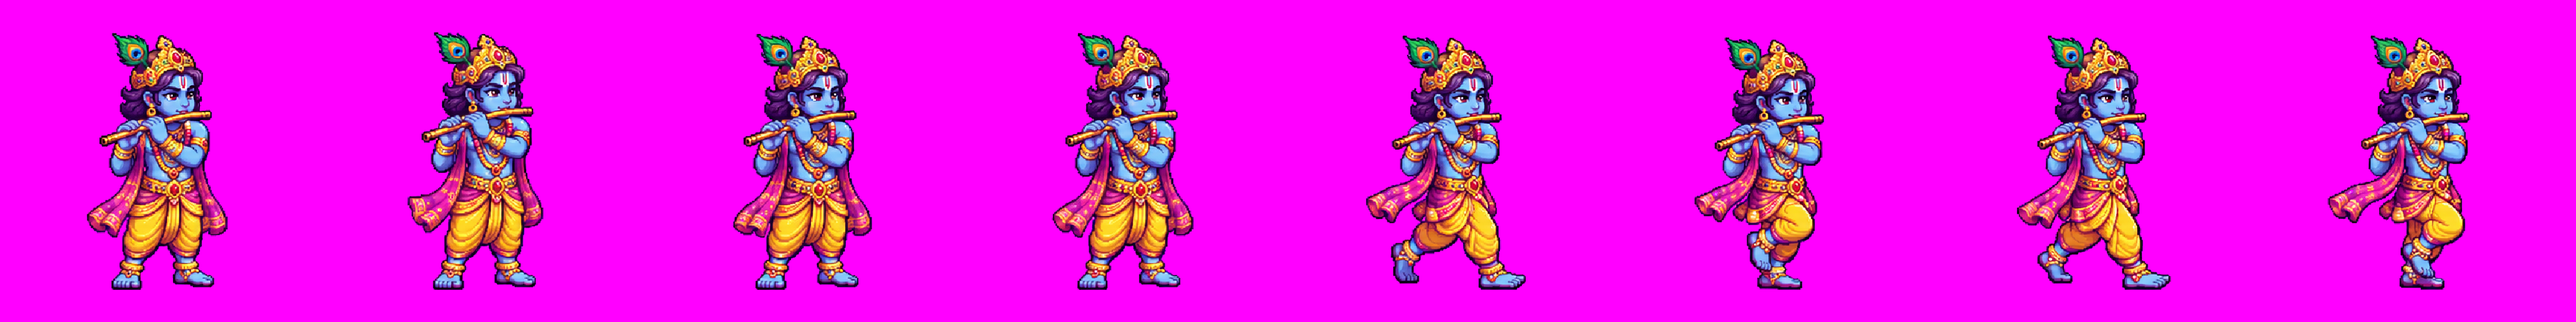
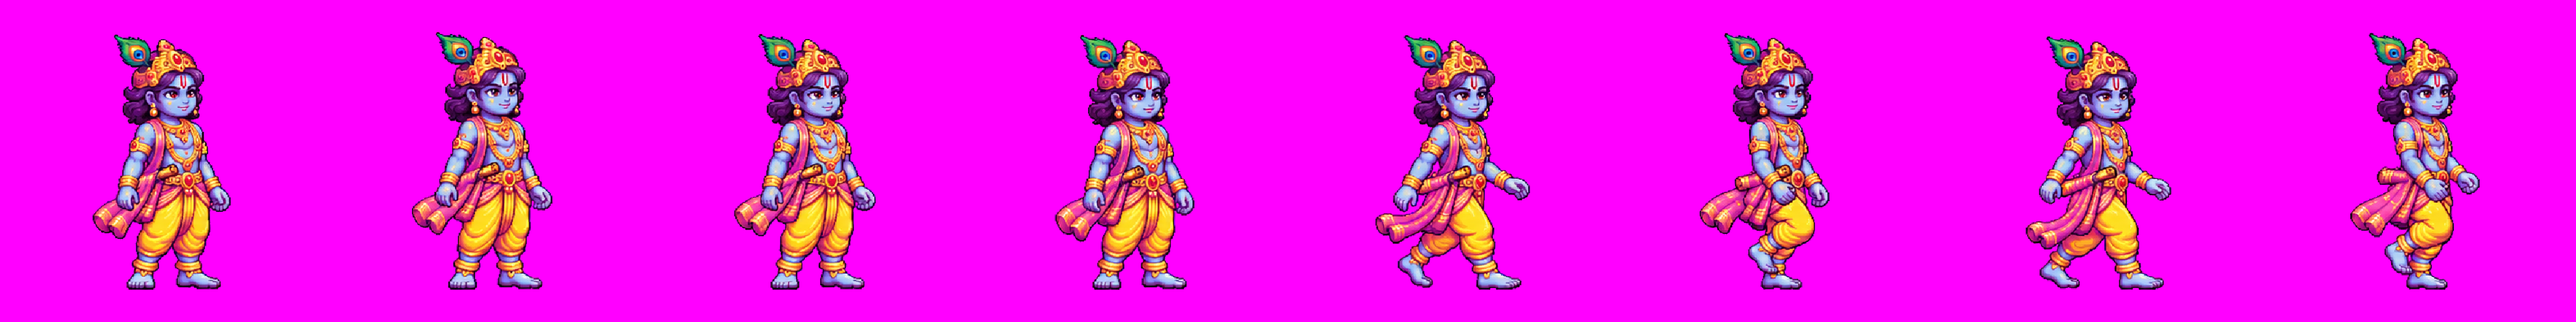
Art: Kaveri riverbank arena, action poses, sharp 1920x1080 rendering
- Arena is a sandbank on the Kaveri at dusk (sky and temple versions kept).
- Action sheets for both fighters: attack, block, cast, hit, chant/meditate.
- Krishna's idle/walk keeps the flute in his sash; it only comes up in flute moves.
- Canvas renders at 1920x1080 (RES=4) and sprites are prescaled, so art is crisp.

diff --git a/src/art.js b/src/art.js
@@ -2,13 +2,24 @@
 // so the game always runs. Sprite sheets are one row of frames on a flat key colour (magenta): the
 // colour is keyed out here, the frames are found by the empty columns between them, and every frame
 // is lined up on the same foot baseline.
+import { RES } from './config.js';
+
 export const ART = { arena: null, fit: null, sheets: {}, ready: false };
 
 // Where the arena floor sits in arena.png, as fractions of the image: centre and half-axes.
 // Measured by hand from the image; art/arena.json overrides it when present.
 const DEFAULT_FIT = { cx: 0.5, cy: 0.58, rx: 0.23, ry: 0.115 };
-const SHEETS = { krishna: 'art/krishna_sheet.png', rajaraja: 'art/rajaraja_sheet.png' };
-export const SPRITE_H = 46; // on-screen height of a fighter, in game pixels
+// Per fighter: walk = 1-4 idle, 5-8 walk; act = the 8 action poses (see POSES).
+const SHEETS = {
+  krishna: { walk: 'art/krishna_sheet.png', act: 'art/krishna_actions.png' },
+  rajaraja: { walk: 'art/rajaraja_sheet.png', act: 'art/rajaraja_actions.png' },
+};
+// Frame numbers in each action sheet (0-based).
+export const POSES = {
+  krishna: { shootWind: 0, shoot: 1, meleeWind: 2, melee: 3, block: 4, cast: 5, hit: 6, chant: 7 },
+  rajaraja: { shootWind: 0, shoot: 1, meleeWind: 2, melee: 3, block: 4, cast: 5, hit: 6, meditate: 7 },
+};
+export const SPRITE_H = 46; // on-screen height of a fighter, in layout units (x RES real pixels)
 
 const loadImg = (src) => new Promise((res) => { const i = new Image(); i.onload = () => res(i); i.onerror = () => res(null); i.src = src; });
 
@@ -38,7 +49,8 @@ function frames(c, d, expect = 8) {
     if (on && s < 0) s = x;
     if (!on && s >= 0) { if (x - s > W / expect / 6) runs.push([s, x]); s = -1; }
   }
-  const cells = runs.length === expect ? runs : Array.from({ length: expect }, (_, i) => [Math.round((i * W) / expect), Math.round(((i + 1) * W) / expect)]);
+  const square = W === Hh * expect; // the agreed format: 8 square cells, character centred in each
+  const cells = !square && runs.length === expect ? runs : Array.from({ length: expect }, (_, i) => [Math.round((i * W) / expect), Math.round(((i + 1) * W) / expect)]);
   return { cells: cells.map(([a, b]) => ({ x: a, w: b - a, cx: (a + b) / 2 })), top, bottom };
 }
 
@@ -54,7 +66,7 @@ function prescale(c, f, k) {
   const out = document.createElement('canvas'); out.width = tw; out.height = th;
   const g = out.getContext('2d'); g.imageSmoothingQuality = 'high'; g.drawImage(src, 0, 0, tw, th);
   return {
-    canvas: out, top: Math.floor(f.top * k), bottom: Math.ceil(f.bottom * k),
+    canvas: out, top: Math.floor(f.top * k), bottom: Math.ceil(f.bottom * k), base: Math.ceil((f.base ?? f.bottom) * k),
     cells: f.cells.map((cl) => ({ x: Math.floor(cl.x * k), w: Math.ceil(cl.w * k), cx: cl.cx * k })),
   };
 }
@@ -67,25 +79,30 @@ export async function loadArt(base = '') {
   ART.arena = arena;
   ART.fit = { ...DEFAULT_FIT, ...(fitJson || {}) };
   for (const [id, src] of Object.entries(SHEETS)) {
-    const img = await loadImg(base + src);
-    if (!img) continue;
-    const { c, d } = keyOut(img);
-    const f = frames(c, d);
-    ART.sheets[id] = prescale(c, f, SPRITE_H / Math.max(1, f.bottom - f.top + 1));
+    const [walkImg, actImg] = await Promise.all([loadImg(base + src.walk), loadImg(base + src.act)]);
+    if (!walkImg) continue;
+    const w = keyOut(walkImg), wf = frames(w.c, w.d);
+    const k = (SPRITE_H * RES) / Math.max(1, wf.bottom - wf.top + 1); // the walk sheet sets the size...
+    ART.sheets[id] = { walk: prescale(w.c, wf, k), act: null };
+    if (actImg && actImg.width === walkImg.width && actImg.height === walkImg.height) {
+      const a = keyOut(actImg), af = frames(a.c, a.d);
+      ART.sheets[id].act = prescale(a.c, { ...af, base: wf.bottom }, k); // ...and the feet line for both sheets
+    }
   }
   ART.ready = true;
   return ART;
 }
 
-// Draw frame `i` of a fighter's sheet with its feet at (x, y). flip = facing left.
-export function drawSprite(g, id, i, x, y, flip) {
-  const s = ART.sheets[id];
+// Draw frame `i` of a fighter's walk or act sheet with its feet at (x, y). flip = facing left.
+export function drawSprite(g, id, set, i, x, y, flip) {
+  const s = ART.sheets[id]?.[set];
   if (!s) return false;
-  const f = s.cells[i % s.cells.length], h = s.bottom - s.top + 1;
+  const f = s.cells[i % s.cells.length], h = s.bottom - s.top + 1, up = s.base - s.top + 1;
   g.save();
-  g.translate(Math.round(x), Math.round(y));
+  g.translate(Math.round(x * RES) / RES, Math.round(y * RES) / RES);
   if (flip) g.scale(-1, 1);
-  g.drawImage(s.canvas, f.x, s.top, f.w, h, Math.round(-(f.cx - f.x)), -h, f.w, h);
+  g.imageSmoothingEnabled = true;
+  g.drawImage(s.canvas, f.x, s.top, f.w, h, -(f.cx - f.x) / RES, -up / RES, f.w / RES, h / RES); // 1 sheet pixel = 1 screen pixel
   g.restore();
   return true;
 }

diff --git a/src/render.js b/src/render.js
@@ -3,7 +3,7 @@
 import { W, H, ARENA, TUNE } from './config.js';
 import { ACTIONS, LABELS, KEYS, KEY_NAME, PAD, PAD_NAMES } from './input.js';
 import { opponent, chargeOf } from './sim.js';
-import { ART, drawSprite } from './art.js';
+import { ART, drawSprite, POSES } from './art.js';
 
 export const FONT = '"Press Start 2P", monospace';
 export const CX = 240;                // screen centre
@@ -105,8 +105,11 @@ function drawFighter(m, p, now) {
   let top = y - 30;
   if (useArt && ART.sheets[p.ch.id]) {
     ring(x, y + 1, Z(9), Z(9) * SQ, p.id === 0 ? 'rgba(90,160,255,.9)' : 'rgba(255,90,70,.9)', 1); // player ring
-    const moving = anim[p.id].moving, fps = moving ? 10 : 5, i = Math.floor(now * fps) % 4 + (moving ? 4 : 0);
-    drawSprite(G, p.ch.id, i, x, y + 1, p.face.x < 0);
+    const pose = poseOf(m, p);
+    if (pose == null || !drawSprite(G, p.ch.id, 'act', pose, x, y + 1, p.face.x < 0)) {
+      const moving = anim[p.id].moving, fps = moving ? 10 : 5, i = Math.floor(now * fps) % 4 + (moving ? 4 : 0);
+      drawSprite(G, p.ch.id, 'walk', i, x, y + 1, p.face.x < 0);
+    }
     top = y - ART_TOP;
   } else {
     ell(x, y - 4, 8, 7, c);
@@ -160,14 +163,38 @@ function drawProjectile(pr0, now) {
 
 // ---------- the whole fight view ----------
 // walking or standing, from how far each fighter moved since the last frame
-const anim = [{ x: 0, y: 0, moving: false, still: 0 }, { x: 0, y: 0, moving: false, still: 0 }];
+// plus short poses that outlive a cast: the release of a shot or strike, and flinching from a hit
+const anim = [0, 1].map(() => ({ x: 0, y: 0, moving: false, still: 0, hp: 100, cast: null, pose: null, until: 0 }));
 const ART_TOP = 58;
 function trackMotion(m) {
+  const now = m.t; // match clock: poses freeze with the game
   for (const p of m.players) {
-    const a = anim[p.id], d = Math.hypot(p.x - a.x, p.y - a.y);
+    const a = anim[p.id], d = Math.hypot(p.x - a.x, p.y - a.y), P = POSES[p.ch.id];
     if (d > 0.2) { a.moving = true; a.still = 0; } else if (++a.still > 4) a.moving = false;
     a.x = p.x; a.y = p.y;
+    if (P && p.hp < a.hp - 0.01) { a.pose = P.hit; a.until = now + 0.3; }
+    else if (P && a.cast && !p.cast) { // a cast just ended: hold the follow-through
+      const after = { a1: P.shoot, s1: P.shoot, s2: p.ch.weapon === 'bow' ? P.shoot : null, a2: P.melee }[a.cast];
+      if (after != null) { a.pose = after; a.until = now + 0.22; }
+    }
+    a.hp = p.hp; a.cast = p.cast ? p.cast.slot : null;
   }
+}
+// which action frame a fighter shows right now (null = idle / walk)
+function poseOf(m, p) {
+  const P = POSES[p.ch.id], a = anim[p.id], now = m.t;
+  if (!P) return null;
+  if (a.pose != null && now < a.until) return a.pose;
+  if (p.effects.stun) return P.hit;
+  if (p.block) return P.block;
+  if (p.med) return P.meditate ?? P.cast;
+  if (!p.cast) return null;
+  const c = p.cast, k = c.move.cast > 0 ? c.t / c.move.cast : 1;
+  if (c.slot === 'a1' || (c.slot === 's1' && c.move.kind === 'projectile' && p.ch.weapon === 'bow') || (c.slot === 's2' && p.ch.weapon === 'bow')) return P.shootWind;
+  if (c.slot === 'a2') return k < 0.6 ? P.meleeWind : P.melee;
+  if (c.slot === 's2' && p.ch.id === 'krishna') return P.shootWind; // Venu Ganam: playing the flute
+  if (c.move.kind === 'brahmastra') return P.chant ?? P.cast;
+  return P.cast;
 }
 
 export function drawFight(m, now, fx) {

diff --git a/src/main.js b/src/main.js
@@ -1,4 +1,4 @@
-import { W, H, STEP, TUNE } from './config.js';
+import { W, H, RES, STEP, TUNE } from './config.js';
 import { createMatch, stepMatch, spawnUnit } from './sim.js';
 import { setCtx, R, txt, drawFight, drawTitle, drawSetup, drawPause, drawResult, CX, fitView, setUseArt, useArt } from './render.js';
 import { loadArt, ART } from './art.js';
@@ -80,7 +80,7 @@ function update(dt) {
 }
 
 function render() {
-  ctx.setTransform(1, 0, 0, 1, 0, 0);
+  ctx.setTransform(RES, 0, 0, RES, 0, 0); // draw in 480x270 layout units on the full-HD canvas
   R(0, 0, W, H, '#000');
   if (S.screen === 'title') drawTitle(S.now, S.pads);
   else if (S.screen === 'setup') drawSetup(S.now, S.minutes);
@@ -107,7 +107,7 @@ addEventListener('error', (e) => S.errors.push(String(e.error?.stack || e.messag
 const r1 = (v) => Math.round(v * 10) / 10;
 window.__game = {
   get screen() { return S.screen; },
-  get art() { return { ready: ART.ready, arena: !!ART.arena, sheets: Object.keys(ART.sheets), frames: Object.fromEntries(Object.entries(ART.sheets).map(([k, s]) => [k, s.cells.length])) }; },
+  get art() { return { ready: ART.ready, arena: !!ART.arena, sheets: Object.keys(ART.sheets), frames: Object.fromEntries(Object.entries(ART.sheets).map(([k, s]) => [k, s.walk.cells.length])), actions: Object.fromEntries(Object.entries(ART.sheets).map(([k, s]) => [k, s.act ? s.act.cells.length : 0])) }; },
   errors: S.errors,
   debug: {
     pause() { DBG.paused = true; }, resume() { DBG.paused = false; },

diff --git a/src/config.js b/src/config.js
@@ -1,6 +1,7 @@
 // Every amount is a percentage of a 100% bar. Every time is in seconds.
 // World units: the arena is a circle of radius ARENA.r around (0, 0). The renderer squashes y for a 3/4 view.
-export const W = 480, H = 270;
+export const W = 480, H = 270;   // game layout units
+export const RES = 4;             // the canvas is W*RES x H*RES (1920x1080) so the art stays sharp
 export const STEP = 1 / 60;
 
 export const ARENA = { r: 110 };

diff --git a/index.html b/index.html
@@ -14,7 +14,7 @@
 </style>
 </head>
 <body>
-<canvas id="screen" width="480" height="270"></canvas>
+<canvas id="screen" width="1920" height="1080"></canvas>
 <script type="module" src="src/main.js"></script>
 </body>
 </html>

diff --git a/README.md b/README.md
@@ -26,7 +26,7 @@ Then open http://127.0.0.1:5174. Backquote (`) toggles fullscreen. Controllers: 
 
 ## Art
 
-`art/` holds the art made with Codex image generation: `arena.png` and one sprite sheet per fighter (`krishna_sheet.png`, `rajaraja_sheet.png`: 8 frames in a row, 1-4 idle and 5-8 walk, on flat magenta). `src/art.js` removes the magenta, finds the frames and lines up their feet. `art/arena.json` says where the arena floor is in `arena.png` (centre and half-widths as fractions of the image), so the game lines up with the picture. If a file is missing, the game draws its grey-box shapes instead. Press `0` in game, or open `?grey=1`, to switch to the grey-box.
+`art/` holds the art made with Codex image generation: `arena.png` (a sandbank on the Kaveri river at dusk; earlier tries are kept as `arena_sky.png` and `arena_temple.png`) and two sprite sheets per fighter, each 8 frames in a row on flat magenta: `*_sheet.png` (1-4 idle, 5-8 walk) and `*_actions.png` (attack wind-up and release, block, cast, hit, chant or meditate; see `POSES` in `src/art.js`). `src/art.js` removes the magenta, finds the frames and lines up their feet. `art/arena.json` says where the arena floor is in `arena.png` (centre and half-widths as fractions of the image), so the game lines up with the picture. If a file is missing, the game draws its grey-box shapes instead. Press `0` in game, or open `?grey=1`, to switch to the grey-box.
 
 ## Tests
 
